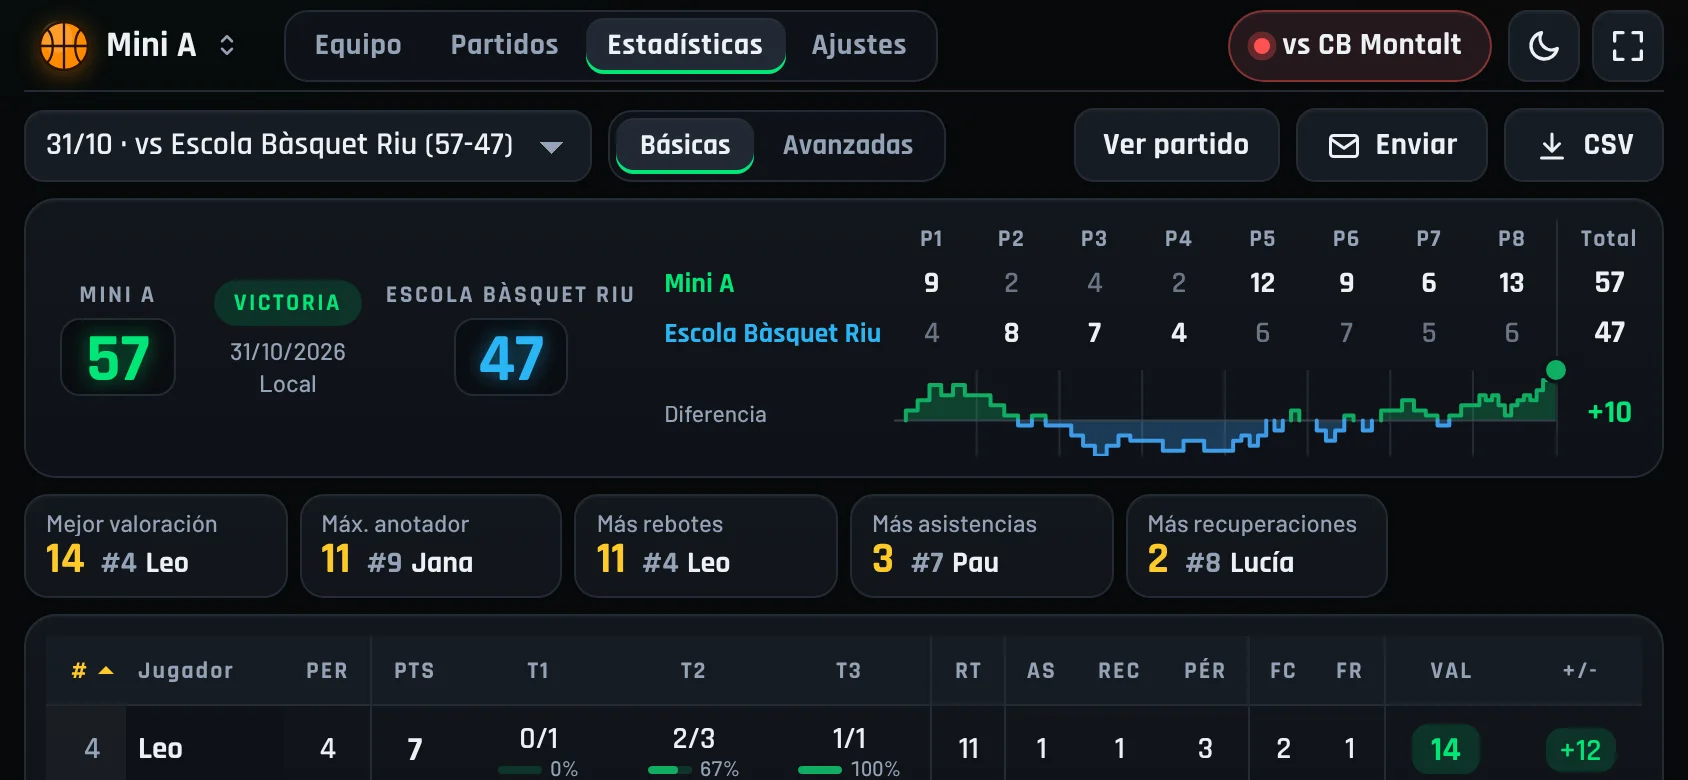
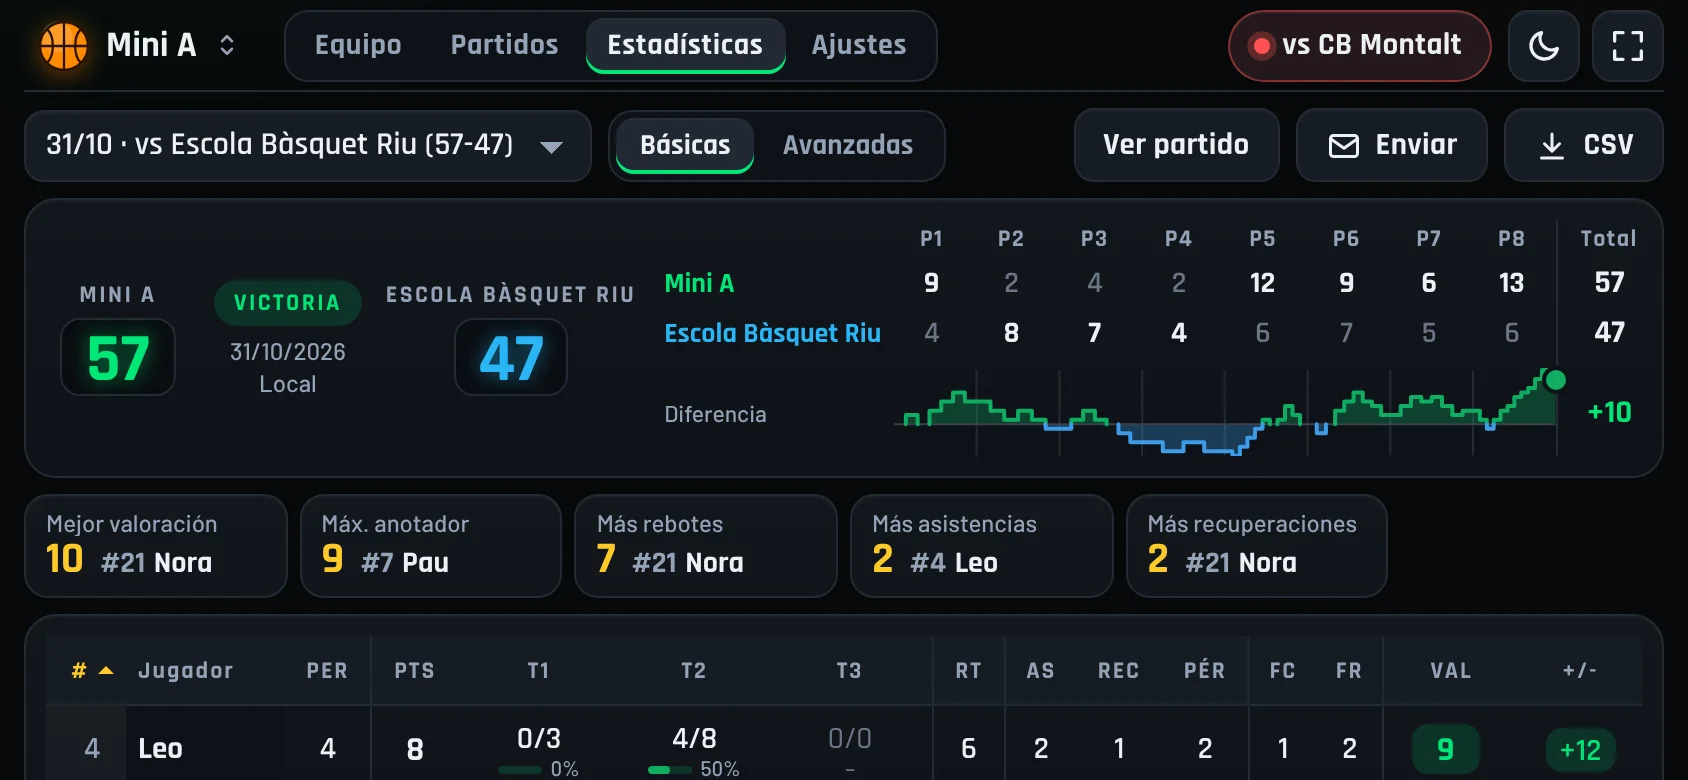
Revisión del PR: script de capturas más seguro y datos más realistas
- Si la app falla, no llega a la pantalla esperada (p. ej. un partido que no
  existe) o el navegador no codifica WebP, el script se para sin escribir
  ninguna imagen.
- Servidor estático: rutas de URL con «/» también en Windows y sin caerse con
  un %-escape incorrecto.
- Datos: makeTeam/makeGame/makeData de los tests (un solo formato), reparto
  acumulado de puntos entre quintetos de un periodo y triples fallados.
- Contexto de móvil táctil (isMobile, hasTouch).
- Textos alternativos: los perfiles, con el nombre que tienen en la app.
- Capturas regeneradas.

Claude-Session: https://claude.ai/code/session_0156vubYcrPUoFwhCi52DNzL

diff --git a/src/i18n/home.ts b/src/i18n/home.ts
@@ -51,7 +51,7 @@ export const home = {
       'Si te equivocas, deshaces la última acción o borras cualquier jugada de la lista.',
       'Todo cabe en la pantalla del móvil en horizontal, sin hacer scroll.',
     ],
-    miniAlt: 'Ajustes de My Own Basketball Stats: perfiles de botones por categoría (escuela, pre-mini, mini y completo), con el perfil mini elegido, e interruptores para activar o desactivar cada acción',
+    miniAlt: 'Ajustes de My Own Basketball Stats: perfiles de botones por categoría (Escuela, Pre-mini, Mini y Completo), con el perfil Mini elegido, e interruptores para activar o desactivar cada acción',
     statsTitle: 'Las estadísticas, nada más acabar',
     stats: [
       'Resultado y parciales de cada periodo.',
@@ -148,7 +148,7 @@ export const home = {
       "Si t'equivoques, desfàs l'última acció o esborres qualsevol jugada de la llista.",
       'Tot cap a la pantalla del mòbil en horitzontal, sense haver de desplaçar-la.',
     ],
-    miniAlt: "Ajustos de My Own Basketball Stats: perfils de botons per categoria (escuela, pre-mini, mini i completo), amb el perfil mini triat, i interruptors per activar o desactivar cada acció",
+    miniAlt: "Ajustos de My Own Basketball Stats: perfils de botons per categoria (a l'app, «Escuela», «Pre-mini», «Mini» i «Completo»), amb el perfil «Mini» triat, i interruptors per activar o desactivar cada acció",
     statsTitle: 'Les estadístiques, en acabar el partit',
     stats: [
       'Resultat i parcials de cada període.',
